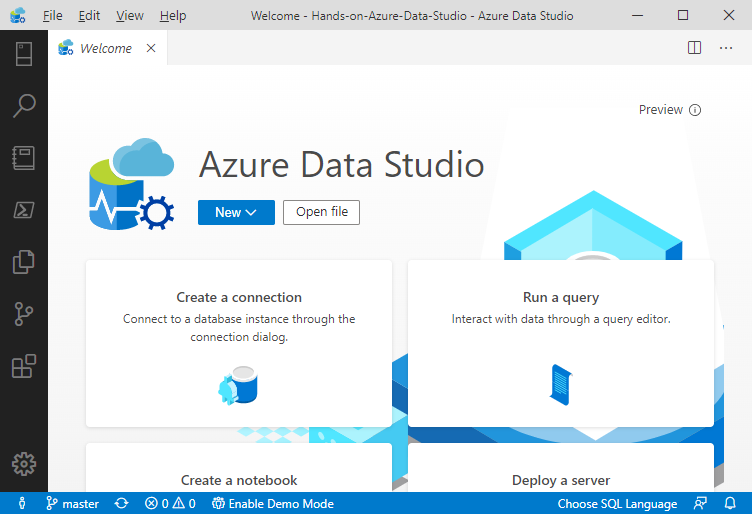
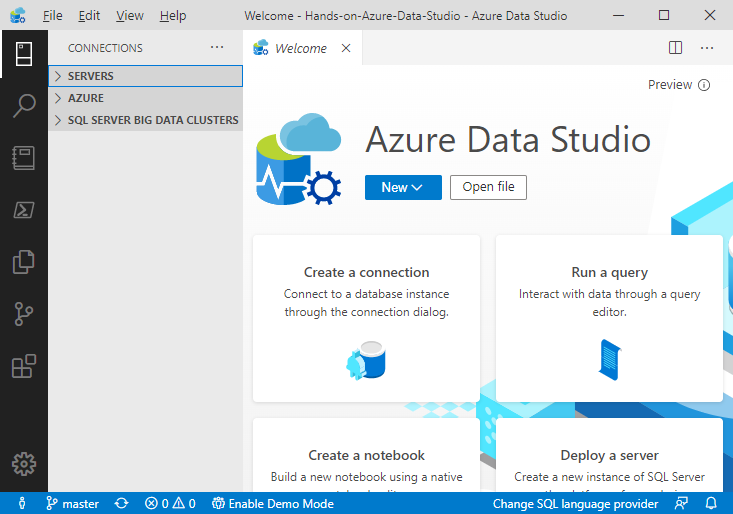
update

diff --git a/manuscript/chapter2.md b/manuscript/chapter2.md
@@ -5,3 +5,128 @@ Most of what you do in Azure Data Studio, like most data engineering tools, will
 Since there is no better way to learn than by doing, let’s go ahead and open Azure Data Studio. Figure 2-1 below shows the Welcome page which is designed to assist you in getting started with ADS.
 
 ![Figure 2-1. Welcome page](ch02_figures\Figure_02-01.png)
+
+The opening screen places you automatically in the context of *Connections* which is exactly where we want to start. Notice that the icons stacked vertically on the left side of the application (the ‘Activity Bar’) provide you access to other ADS functionality. A closer examination of these icons, as shown in figure 2-2, reveals that one of the icons is a little brighter than the others. This indicates the *current* ADS context, which also determines the contents of the detailed navigation (called the ‘Side Bar’) that is displayed in the pane immediately to the right of the Activity Bar.
+
+![Figure 2-2. Connection Access](ch02_figures\Figure_02-02.png)
+
+The ‘Side Bar’ for Connections provides high level groupings for
+- Servers
+- Azure
+- SQL Server Big Data Clusters
+
+ which can be expanded to list individual connections and/or ‘sub’ grouping of connections. 
+
+You can also add “Central Management Servers” to the above list by first installing the Microsoft *extension* for this feature. Steps for installing this are included in the last section of this chapter.
+
+### Connecting to SQL Server
+
+For our first connection, let’s connect to an ‘on-premise’ instance of SQL Server. To start, click on *Create a connection* in the "Welcome page" as outlined in figure 2-3:
+
+![Figure 2-3. Create a connection](ch02_figures\Figure_02-03.png)
+
+You could also, open the ‘Servers’ container located in the ‘Side Bar’, and click on the ‘Add connection’ mini icon as shown in figure 2-4:
+
+![Figure 2-4. New connection from the ‘Servers’ container](ch02_figures\Figure_02-04.png)
+
+In either case, the form shown in figure 2-5 will appear on the right side of the ADS application, allowing you to provide the details for your connection. If you would like to connect using your ‘Windows’ credentials, the only required field on this form is the ‘Server’ name of your SQL Server (instance). Also, if your SQL Server is running on the same computer as Azure Data Studio, you can generally reference it as simply ‘localhost’:
+
+![Figure 2-5. New connection form](ch02_figures\Figure_02-05.png)
+
+Regarding "Authentication type", if you are connecting to an instance of SQL on Linux, you may need to use ‘SQL Login’. Similarly, if you are connecting to a database in Azure, you may want to use ‘Azure Active Directory’. The choice of Authentication types are highlighted in figure 2-6:
+
+![Figure 2-6. New connection form](ch02_figures\Figure_02-06.png)
+
+The ‘Database’ option allows you to connect *directly* to a database on your target server. Leaving this field as ‘<default>’ will connect you at the ‘Server’ level, which when used will provide a ‘drill down’ option to get to the contained databases. Note that if you *do* specify a database name on this form, there is no ability to ‘drill-up’ to the hosting SQL Server when using that connection. Because of this, if you have many databases, you may want to have direct ‘database’ connections for your most frequented databases, and a general ‘server’ connection for the remaining databases.
+
+If you have a *friendly* name for a given server (or database) you can use the optional ‘Name’ field located at the very bottom of the Connection form. One option for this ‘Name’ field could be to clarify the connection *context*. For example, if using a ‘SQL Login’ with perhaps limited access, you could append a short descriptive tag such as ‘Read Only’ to the ‘friendly’ connection name.
+
+We will cover *grouping* connection names in a following section but suffice to mention at this point; your connections may appear under a ‘group’ heading, which by itself may provide additional ‘context’ to your connection names.
+
+### Connecting to Azure SQL Database
+
+Connecting to your database in Azure can be achieved in much the same way as connecting to an ‘on-premise’ instance of SQL Server. Figure 2-7 shows an example of connecting to an Azure SQL Database:
+
+![Figure 2-7. Connecting to Azure SQL Database](ch02_figures\Figure_02-07.png)
+
+For Azure, you will want to specify the ‘Server’ using the fully qualified Azure URI which uniquely points your database [^azureURI]. Next provide an ‘Authentication type’ which in this case would be either ‘SQL Login’, or more preferably ‘Azure Active Directory’.
+
+#### Azure Container in ADS
+
+You can also use the ‘Azure’ container found in ADS ‘Side Bar’ to browse all your Azure based Servers and Databases as displayed in figure 2-8:
+
+![Figure 2-8. Azure Connections](ch02_figures\Figure_02-08.png)
+
+To take advantage of this ‘Azure database browsing’ feature be sure that you have first *authenticated* with Azure Active Directory for your current ‘desktop’ session.
+
+### Connecting to PostgreSQL
+
+Connecting to PostgreSQL is very similar to connecting with SQL Server (whether on-prem, or in the cloud). Be sure to first install the PostgreSQL extension from Microsoft. This extension can be found by entering ‘postgres’ in the "Extensions Marketplace" control as shown in figure 2-9:
+
+![Figure 2-9. The PostgreSQL Extension](ch02_figures\Figure_02-09.png)
+
+A sample connection definition for PostgreSQL is illustrated in figure 2-10.
+
+![Figure 2-10. Sample PostgreSQL Connection](ch02_figures\Figure_02-10.png)
+
+You will want to use the "Connection type" of ‘PostgreSQL’. Note that this connection type (directly to PostgreSQL) only allows for "User name/Password" authentication. You could alternatively ‘browse’ your PostgreSQL servers and databases via the previously mentioned ‘Azure container’ in ADS.
+
+## Grouping and Color Coding your Connections
+
+Azure Data Studio allows you to organize your connections into groups which can optionally be ‘color coded’, both on the ‘Side Bar’, and at the top of the tabbed SQL editor windows. You have complete flexibility with grouping your connections, which might be based on:
+- Server Names
+- Functional Names (e.g., Dev/Test/Prod)
+- Physical Locations
+- Roles (e.g., Admin/Execute/Read Only)
+
+Or any other grouping that facilitates your ‘connection’ navigation.
+
+As an example, figure 2-11 demonstrates grouping and color coding based on development environments:
+
+![Figure 2-11. Sample Connection Groupings](ch02_figures\Figure_02-11.png)
+
+To create your own groupings, you can use the same “Connections Details’ form which we used in the last section (see the ‘Server group’ field near the bottom of this form), or you can alternatively use the ‘Side Bar’ controls. To do this, notice the 3 mini icons that appear to the right of the ‘SERVERS’ label whenever you mouse over the connections ‘Side Bar’ as shown in figure 2-12:
+
+![Figure 2-12. Connection Icons](ch02_figures\Figure_02-12.png)
+
+The center icon provides access to the ‘Add server group’ form which is illustrated in figure 2-13:
+
+![Figure 2-13. Server Group Configuration](ch02_figures\Figure_02-13.png)
+
+Once ‘Server group names’ have been created, you can freely drag and drop ‘connections’ into the group of your choice, using the connections displayed in ‘Side Bar’.
+
+### Color Coding Groups
+
+The bottom of figure 2-13 renders the palette of colors you can select for your groups. A selected group color is not only used in the connections ‘Side Bar’ but can also be extended to the tabbed SQL editor windows. For this option, click on the ‘Manage’ (gear) Icon located at the bottom of the ‘Activity Bar’, choose ‘Settings’, and finally select a *‘Sql: Tab Color Mode’* (i.e., change to border, or fill) as shown in figure 2-14:
+
+![Figure 2-14. Sql: Tab Color Mode Setting](ch02_figures\Figure_02-14.png)
+
+Once the color mode is set, your query editor windows will reflect its group ‘color coding’ as exhibited in figure 2
+
+![Figure 2-15. Sql: Color Coded SQL Editor Windows](ch02_figures\Figure_02-15.png)
+
+To help you get started with creating and organizing connections, we have created an associated YouTube video located at: https://youtu.be/lJRg4SzmEU8. For targeted viewing, the ‘grouping’ of connections starts at minute 03:35, and the ‘color coding’ begins at 04:45.
+
+## Central Management Servers Extension
+
+Azure Data Studio has an extension called ‘Central Management Servers’ which may also be used to group server level connections. This extension is found by typing ‘central’ in the Extensions Marketplace control as shown in figure 2-16:
+
+![Figure 2-16. Installing the ‘Central Management Servers’ Extension](ch02_figures\Figure_02-16.png)
+
+What sets this feature apart from standard connection groupings in ADS is the ability to *execute a single command* on a ‘server group’. For example, if you wanted to execute the SQL command:
+
+    SELECT @@VERSION
+
+on multiple servers, you could run this query against an entire ‘Server Group’. Figure 2-17 demonstrates this capability when running a query against the ‘OnPremise’ server group:
+
+![Figure 2-17. Querying a ‘Central Management’ Server Group](ch02_figures\Figure_02-17.png)
+
+Notice the result set above is from *multiple* servers. In order to tie rows in the ‘results set’ back to the contributing server, ADS adds the ‘Server Name’ as the first column in the returned results. It should be mentioned that at the time of this writing the ‘Central Management Servers’ extension for ADS is in ‘preview’ mode, and not 100% functional. As a temporary fix, this feature is available and working in SQL Server Management Studio.
+
+### Summary
+
+Connections are generally your first step in working with databases, and this chapter has covered a variety of options that you have when using Azure Data Studio. You can have connections defined at the database or server level, grouped and color coded, on premise and in the cloud, and on SQL Server and PostgreSQL (with more ADS supported databases on the way). You can also ‘browse’ your Azure based Servers and Databases using an Azure authenticated user account.
+
+We did not cover connecting to ‘Big Data Clusters’ since that is a deep topic which really needs its own book. We also did not discuss connecting to a database using an ADS supported language, such as Python or PowerShell. We will cover these connectivity options in subsequent chapters, and especially in our Python or PowerShell deep dives, covered in chapters 14 and 15 respectively.
+
+[^azureURI]: If you are not sure of your database URI, it can be looked-up on Microsoft’s Azure Portal: https://azure.microsoft.com
